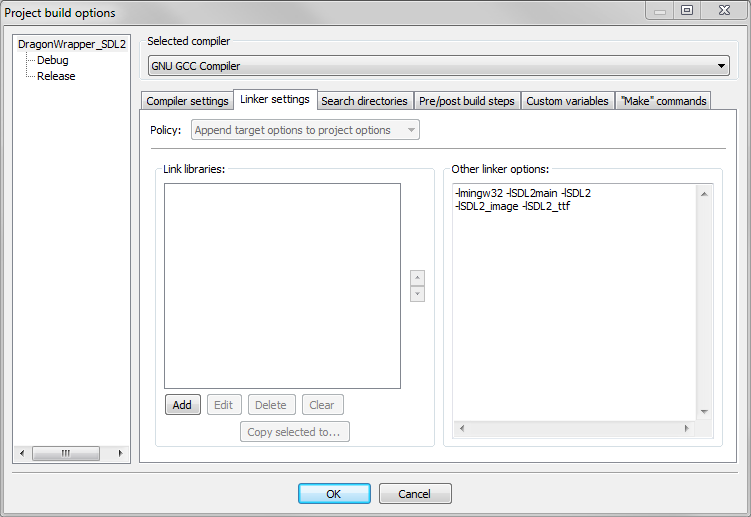
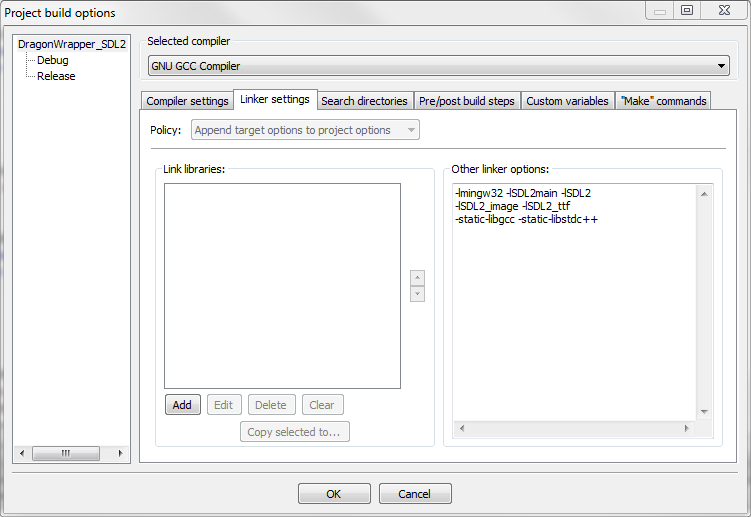
Missed some linker options

diff --git a/2014/May/SDL2 - That Which I Learned.md b/2014/May/SDL2 - That Which I Learned.md
@@ -11,7 +11,7 @@ There are a couple important bits so lets document them here and now so we don't
 * Change the font and size of displayed text 
 * Handle input for mouse and keyboard 
 
-The first one is so any code I write with this isn't chained to SDL2. 
+&nbsp;&nbsp;&nbsp;The first one is so any code I write with this isn't chained to SDL2. 
 I could go and write a wrapper for another similar thing and use it in place of this. 
 Mostly I am just paranoid here but since this is a learning experiance its okay as its showing how you can make code safe from changes in a library you use. 
 The stuff in the middle is easy to understand so I don't have to say much about it. 
@@ -70,7 +70,7 @@ As I am using some random things from C++11 which I am not sure of lets just che
 ![While I did have a picture here it apperently failed. Inform me and I will try to fix it.](@005 "I don't really have anything interesting to say about this")
 
 &nbsp;&nbsp;&nbsp;Okay now lets select the Linker settings tab and add a few things to the "Other linker options" box. 
-We want to put -lmingw32 -lSDL2main -lSDL2 -lSDL2_image -lSDL2_ttf in there so when we use the stuff it is available. 
+We want to put -lmingw32 -lSDL2main -lSDL2 -lSDL2_image -lSDL2_ttf -static-libgcc -static-libstdc++ in there so when we use the stuff it is available. 
 The window should now look like this (I put a line break in there so you can see it all, it doesn't do anything): 
 
 ![While I did have a picture here it apperently failed. Inform me and I will try to fix it.](@006 "You could even put a line break after each item but meh") 
@@ -95,3 +95,12 @@ In the options enable Enable all compiler warnings and Enable extra compiler war
 CodeBlocks by default has a very low level of warnings and you really want those warnings because they are a thing. 
 
 ![While I did have a picture here it apperently failed. Inform me and I will try to fix it.](@009 "You might even considerer making them the default or something")
+
+&nbsp;&nbsp;&nbsp;Now to wrap up setup as a whole lets grab the dlls we want. 
+For this just head to where ever you stored all the stuff and crack open the bin. 
+As I mentioned above all the dlls for SDL2 are contained here, or atleast for our needs. 
+In this case our needs are as follows: 
+* SDL2.dll
+* SDL2_image.dll
+* SDL2_ttf.dll
+* 
